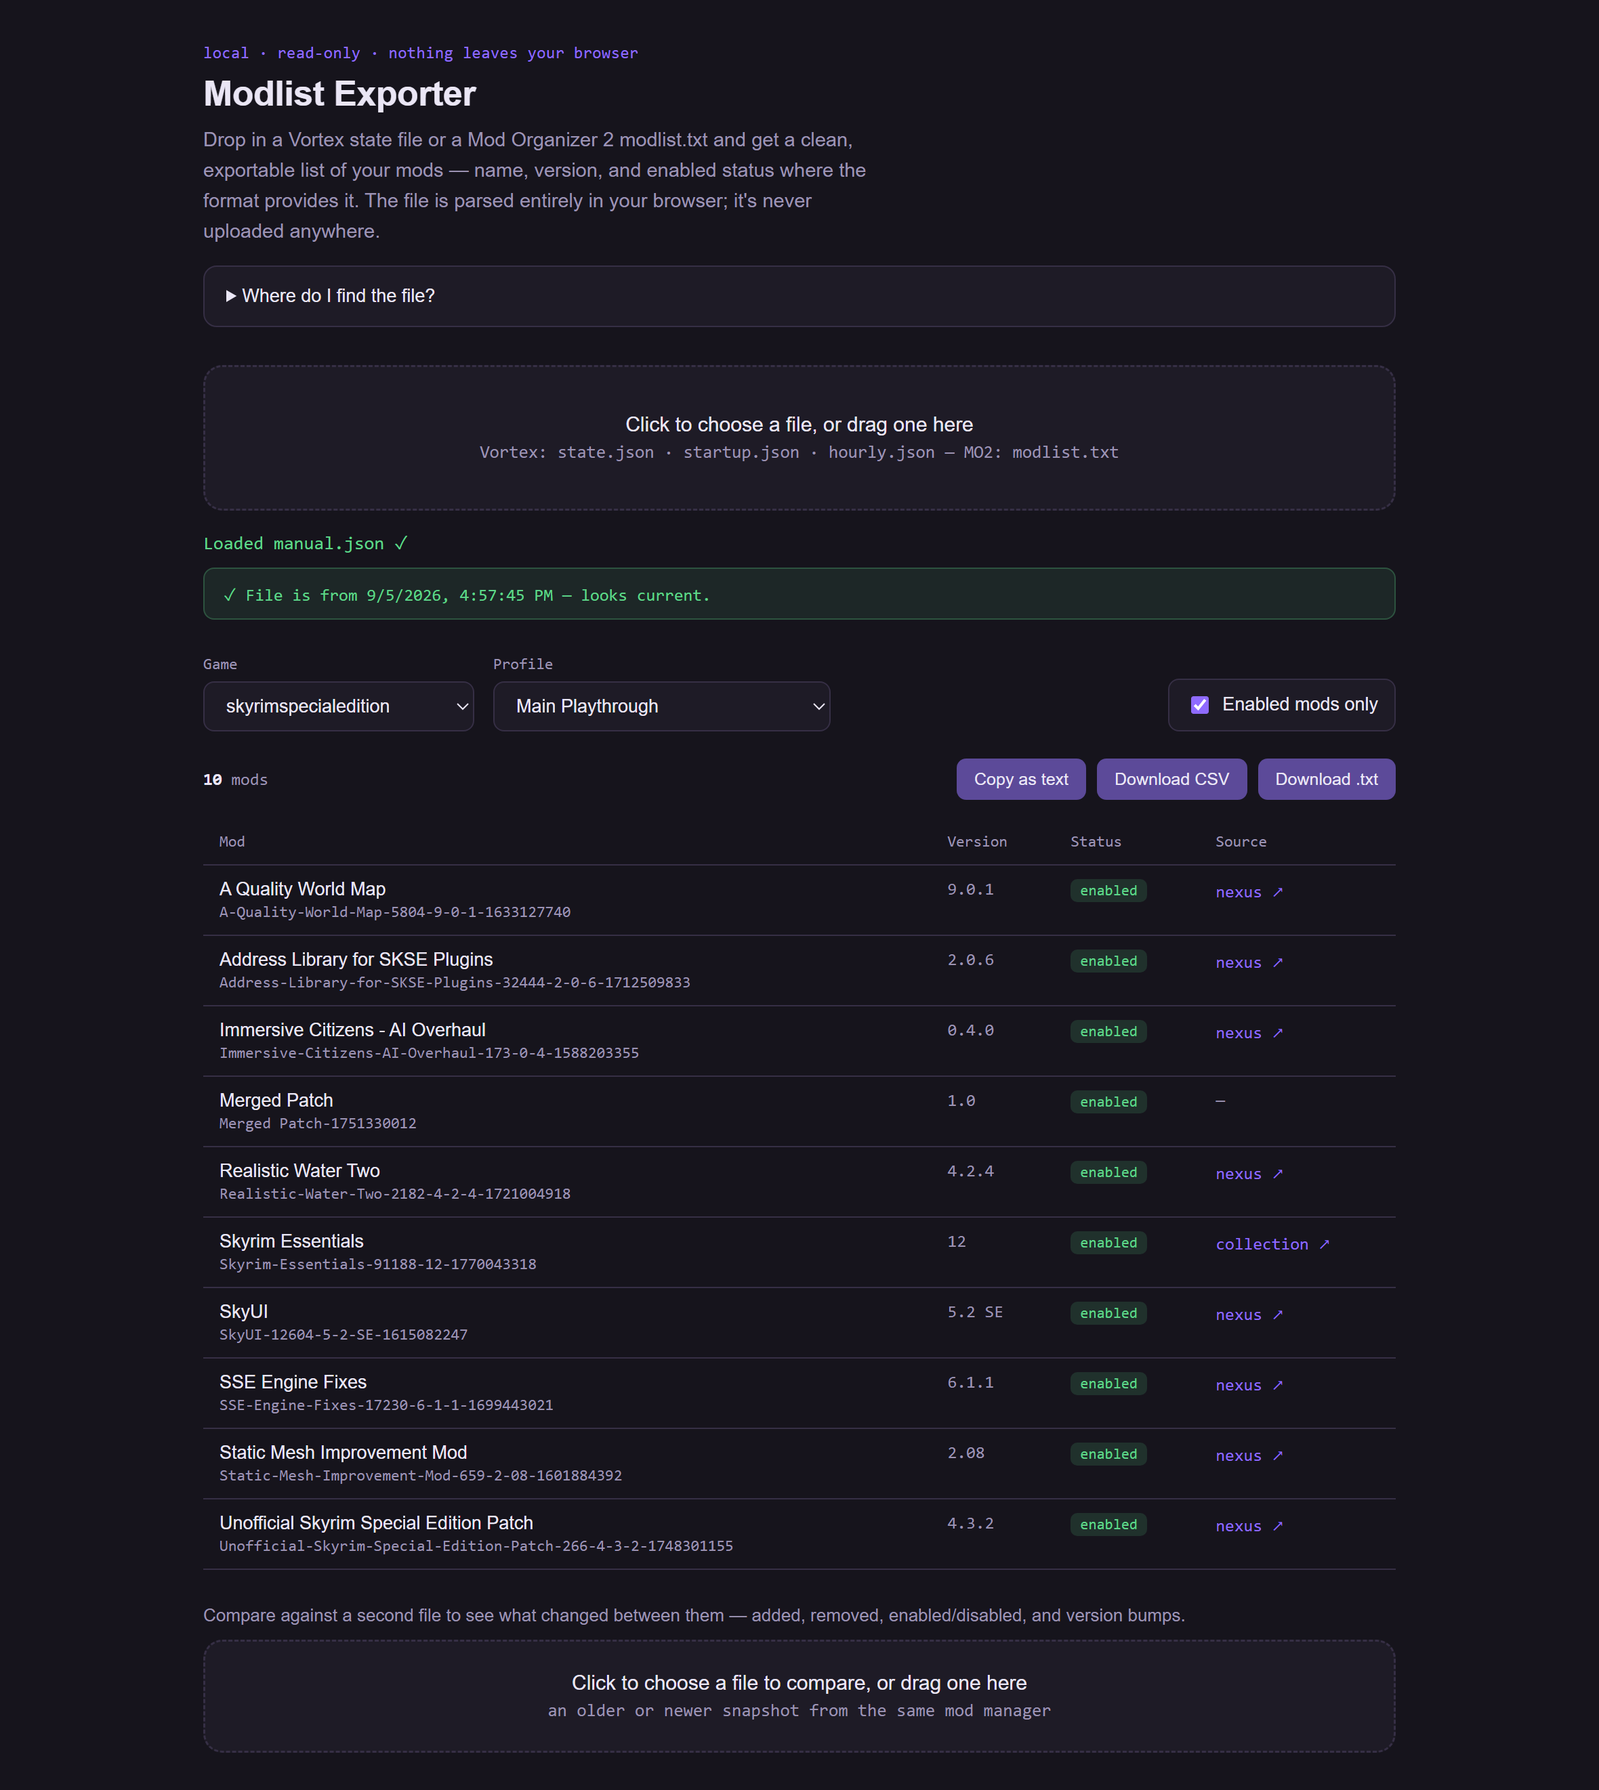
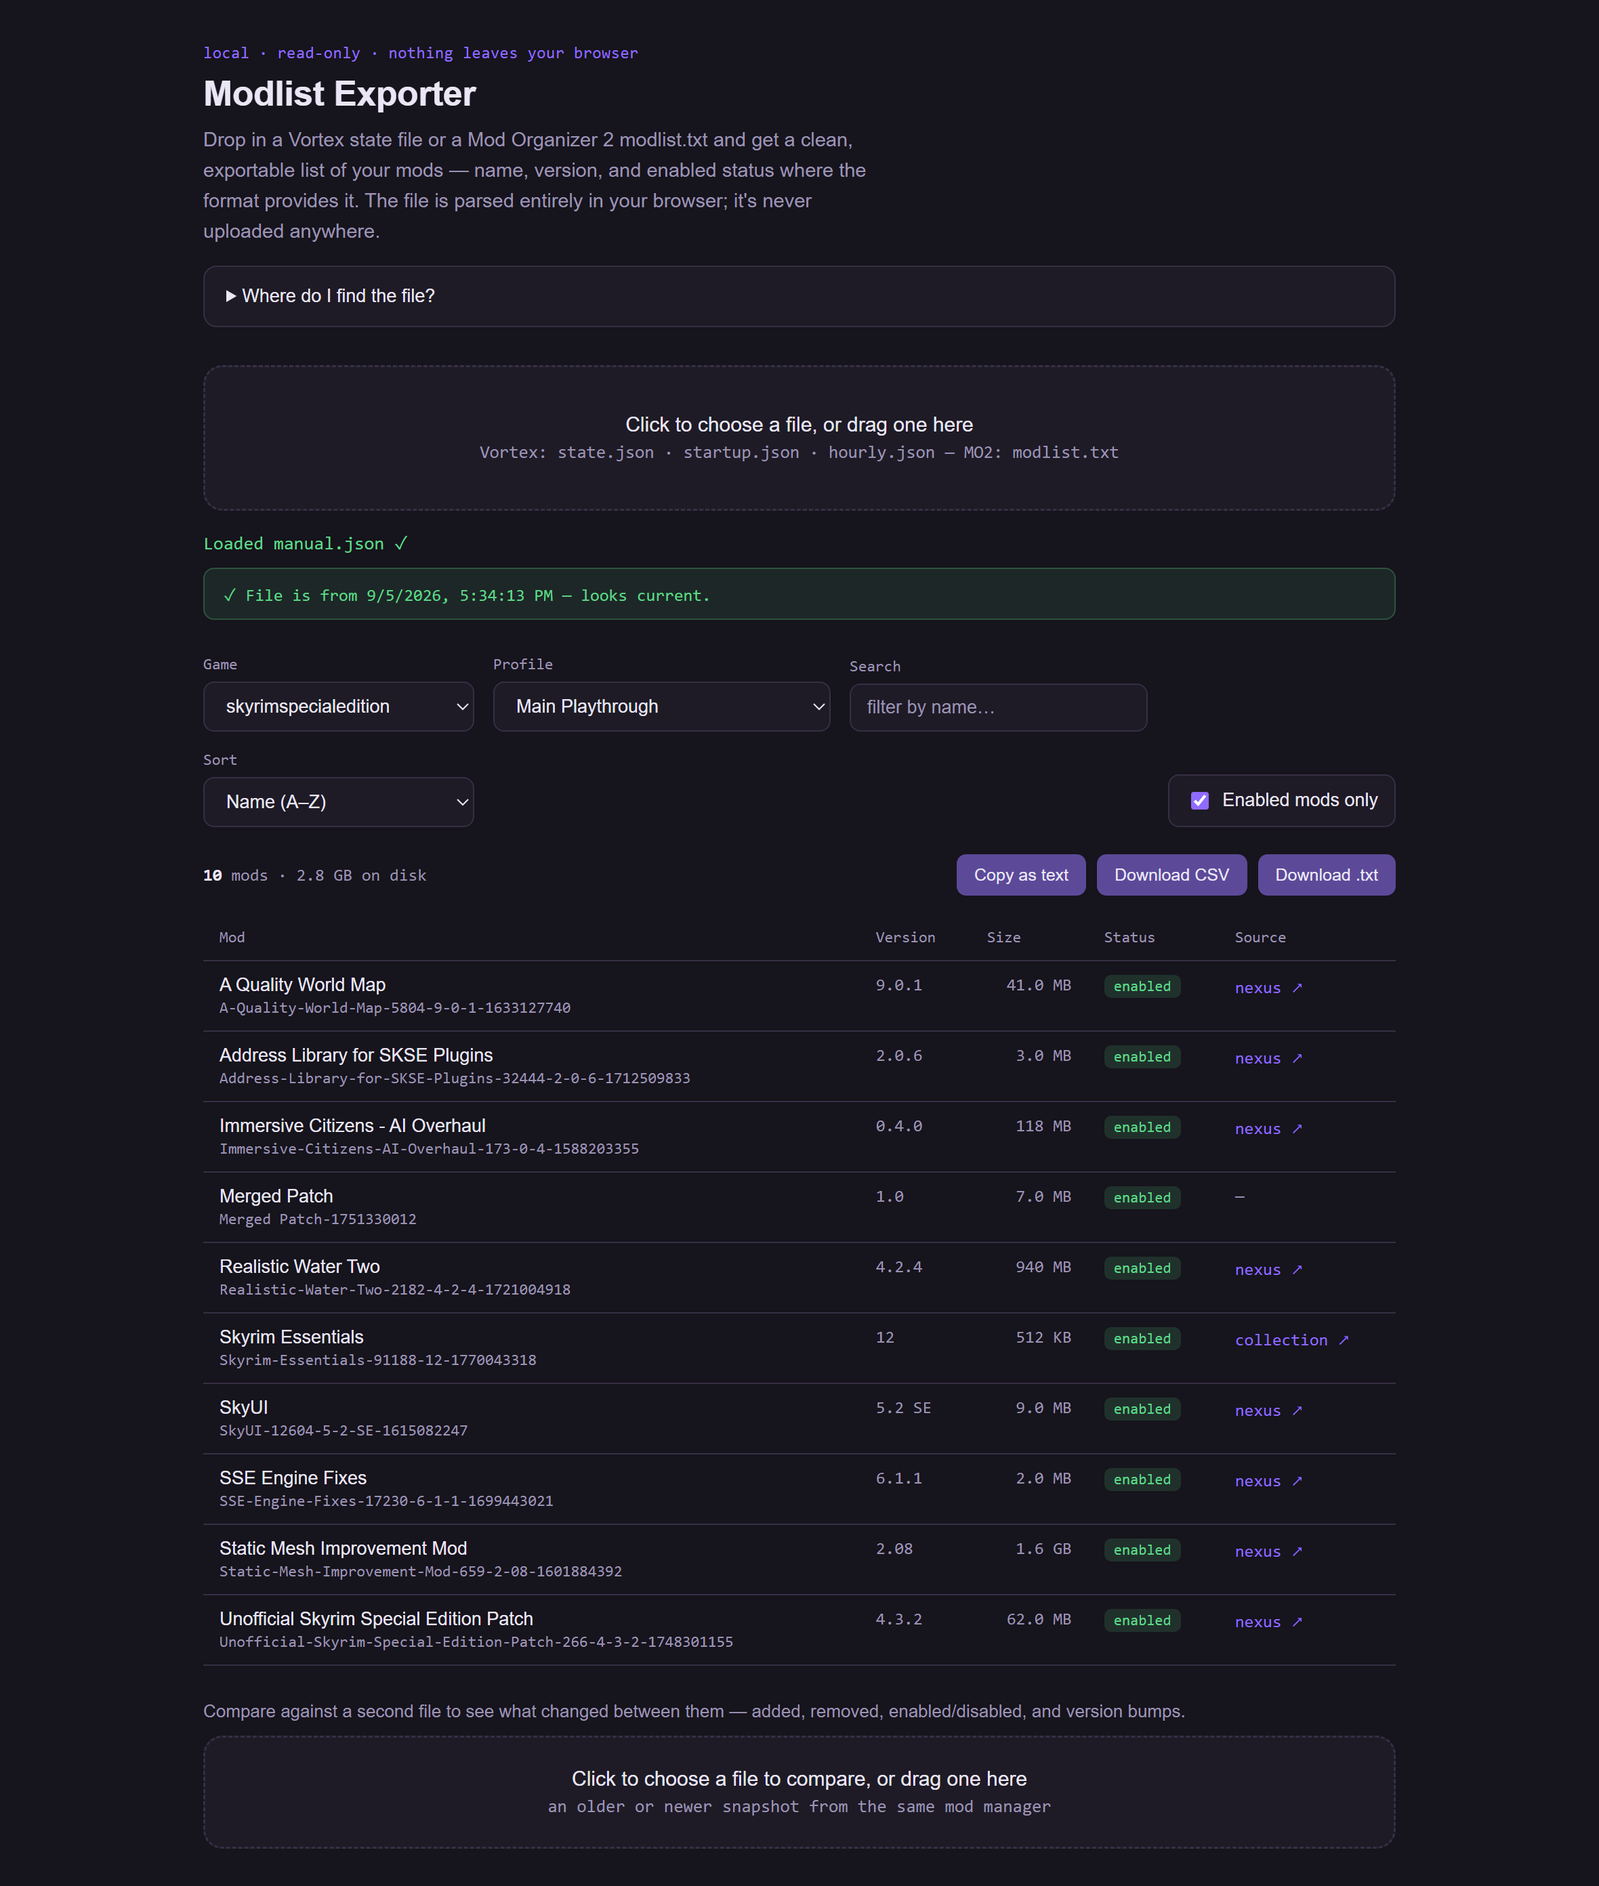
Add a search box and install sizes
Two things that together change the tool from "export a list" into
"understand your setup", which matters once a profile has a few hundred
mods in it.

Search filters on name, mod id, version and source; multiple terms all
have to match, in any order. There was previously no way at all to find a
single mod in a list -- one real profile here holds 131.

Install size comes from Vortex's modSize, falling back to fileSize; it is
present on 99% of the 436 real mods available to test against. The table
gains a Size column and a sortable "largest first" option, and the
summary bar totals whatever is currently shown, so the total responds to
the search and the enabled filter. CSV carries both the formatted size
and the raw byte count so it stays sortable in a spreadsheet.

Column and sort-option visibility is now driven by whether the data
exists: MO2 files have no sizes, Vortex files have no priority order.
That is decided from the unfiltered rows, so searching down to a single
mod with no recorded size does not make the column disappear.

Sizes are deliberately not diffed. A size change without a version change
is not something a person acts on, and it would add noise to the
comparison view.

The README screenshot is regenerated, since it no longer showed the real
UI once the search box and size column existed.

diff --git a/index.html b/index.html
@@ -242,7 +242,23 @@
   .chg .to{ color: var(--ink); }
   #diffTable{ display:none; }
   #diffTable.show{ display:table; }
-  .ver, .src, .ord{ font-family: var(--mono); font-size: 12.5px; color: var(--ink-dim); }
+  .ver, .src, .ord, .size{ font-family: var(--mono); font-size: 12.5px; color: var(--ink-dim); }
+  .size{ text-align: right; white-space: nowrap; }
+  /* MO2's modlist.txt records no sizes, so the column is hidden for it. */
+  #modTable.no-size th.size-col, #modTable.no-size td.size{ display: none; }
+  #searchInput{
+    background: var(--panel);
+    border: 1px solid var(--line);
+    color: var(--ink);
+    padding: 9px 12px;
+    border-radius: 8px;
+    font-size: 13.5px;
+    font-family: var(--sans);
+    min-width: 220px;
+  }
+  #searchInput:focus{ outline: 2px solid var(--accent); outline-offset: 1px; }
+  #searchInput::placeholder{ color: var(--ink-dim); }
+  .size-total{ color: var(--ink-dim); }
   .ord{ text-align: right; width: 1%; white-space: nowrap; padding-right: 14px; }
   /* Only MO2 files carry a verified order, so the column is hidden otherwise. */
   #modTable.no-order th.ord-col, #modTable.no-order td.ord{ display: none; }
@@ -307,11 +323,16 @@
       <label for="profileSelect">Profile</label>
       <select id="profileSelect"></select>
     </div>
+    <div class="field" id="searchField">
+      <label for="searchInput">Search</label>
+      <input type="search" id="searchInput" placeholder="filter by name…" autocomplete="off">
+    </div>
     <div class="field" id="sortField">
       <label for="sortSelect">Sort</label>
       <select id="sortSelect">
         <option value="name">Name (A–Z)</option>
-        <option value="order">MO2 priority order</option>
+        <option value="size">Size (largest first)</option>
+        <option value="order" id="sortOrderOption">MO2 priority order</option>
       </select>
     </div>
     <div class="toggle-row">
@@ -334,7 +355,7 @@
   <div class="diff-basis" id="diffBasis"></div>
 
   <div class="summary-bar" id="summaryBar">
-    <div class="count"><strong id="modCount">0</strong> <span id="countLabel">mods</span></div>
+    <div class="count"><strong id="modCount">0</strong> <span id="countLabel">mods</span><span class="size-total" id="sizeTotal"></span></div>
     <div class="export-btns">
       <button id="copyBtn">Copy as text</button>
       <button id="csvBtn">Download CSV</button>
@@ -348,6 +369,7 @@
         <th class="ord-col" title="Position in MO2's priority pane, top first">#</th>
         <th>Mod</th>
         <th>Version</th>
+        <th class="size-col">Size</th>
         <th>Status</th>
         <th>Source</th>
       </tr>
@@ -410,6 +432,10 @@
   const diffTable = document.getElementById('diffTable');
   const diffTableBody = document.getElementById('diffTableBody');
   const countLabel = document.getElementById('countLabel');
+  const searchInput = document.getElementById('searchInput');
+  const searchField = document.getElementById('searchField');
+  const sizeTotal = document.getElementById('sizeTotal');
+  const sortOrderOption = document.getElementById('sortOrderOption');
   const diffFilters = document.getElementById('diffFilters');
   const filterInputs = [...diffFilters.querySelectorAll('input[data-change]')];
 
@@ -684,7 +710,9 @@
       if (modState){
         enabled = !!(modState[modId] && modState[modId].enabled);
       }
-      return { modId, name, version, enabled, sourceUrl, source };
+      const size = typeof attr.modSize === 'number' ? attr.modSize
+        : (typeof attr.fileSize === 'number' ? attr.fileSize : null);
+      return { modId, name, version, enabled, sourceUrl, source, size };
     });
 
     rows.sort((a,b) => a.name.localeCompare(b.name, undefined, {sensitivity:'base'}));
@@ -698,13 +726,24 @@
       rows = rows.filter(r => r.enabled !== false);
     }
 
-    // Only MO2 files carry a verified order, so hide the column and the sort
-    // control for anything else.
-    const hasOrder = rows.some(r => typeof r.order === 'number');
-    sortField.style.display = hasOrder ? '' : 'none';
+    // Column visibility is decided from the unfiltered set, so searching down
+    // to a single mod with no recorded size doesn't make the column vanish.
+    const unfiltered = rows;
+    rows = rows.filter(r => matchesQuery(r, searchInput.value));
+
+    // Only MO2 files carry a verified order; only Vortex files carry sizes.
+    // Hide each column, and each sort option, where the data doesn't exist.
+    const hasOrder = unfiltered.some(r => typeof r.order === 'number');
+    const hasSize = unfiltered.some(r => typeof r.size === 'number');
     table.classList.toggle('no-order', !hasOrder);
-    if (hasOrder && sortSelect.value === 'order'){
+    table.classList.toggle('no-size', !hasSize);
+    sortOrderOption.hidden = !hasOrder;
+    if (!hasOrder && sortSelect.value === 'order') sortSelect.value = 'name';
+
+    if (sortSelect.value === 'order' && hasOrder){
       rows = rows.slice().sort((a,b) => a.order - b.order);
+    } else if (sortSelect.value === 'size'){
+      rows = rows.slice().sort((a,b) => (b.size || 0) - (a.size || 0));
     }
 
     tbody.innerHTML = '';
@@ -734,6 +773,11 @@
       verTd.textContent = r.version;
       tr.appendChild(verTd);
 
+      const sizeTd = document.createElement('td');
+      sizeTd.className = 'size';
+      sizeTd.textContent = formatSize(r.size);
+      tr.appendChild(sizeTd);
+
       const statTd = document.createElement('td');
       if (r.enabled === null){
         statTd.innerHTML = '<span class="ver">—</span>';
@@ -760,6 +804,11 @@
     });
 
     modCount.textContent = rows.length;
+    const totalBytes = rows.reduce((sum, r) => sum + (typeof r.size === 'number' ? r.size : 0), 0);
+    sizeTotal.textContent = totalBytes > 0 ? '  ·  ' + formatSize(totalBytes) + ' on disk' : '';
+    emptyNote.textContent = searchInput.value.trim()
+      ? 'No mods match that search.'
+      : 'No mods match the current filter.';
     table.classList.toggle('show', rows.length > 0);
     emptyNote.classList.toggle('show', rows.length === 0);
     summaryBar.classList.add('show');
@@ -904,6 +953,7 @@
       table.classList.remove('show');
       controls.classList.remove('show');
       diffFilters.classList.add('show');
+      sizeTotal.textContent = '';
       renderDiff();
     } else {
       diffTable.classList.remove('show');
@@ -922,6 +972,7 @@
   }
 
   onlyEnabled.addEventListener('change', refresh);
+  searchInput.addEventListener('input', () => { if (view === 'list') render(); });
   sortSelect.addEventListener('change', refresh);
   filterInputs.forEach(i => i.addEventListener('change', () => { if (view === 'diff') renderDiff(); }));
   viewListBtn.addEventListener('click', () => setView('list'));
@@ -959,6 +1010,29 @@
     let v = String(value);
     if (/^[=+\-@\t\r]/.test(v)) v = "'" + v;
     return '"' + v.replace(/"/g, '""') + '"';
+  }
+
+  // Sizes come out of the state file in bytes. Vortex reports whole-mod size
+  // as modSize and the downloaded archive as fileSize; prefer the former.
+  function formatSize(bytes){
+    if (typeof bytes !== 'number' || !isFinite(bytes) || bytes <= 0) return '—';
+    const units = ['B', 'KB', 'MB', 'GB', 'TB'];
+    let i = 0;
+    let n = bytes;
+    while (n >= 1024 && i < units.length - 1){ n /= 1024; i++; }
+    // Whole numbers above 100 don't need a decimal to be readable.
+    const digits = i === 0 ? 0 : (n >= 100 ? 0 : 1);
+    return n.toFixed(digits) + ' ' + units[i];
+  }
+
+  // Case- and diacritic-insensitive substring match over the fields a person
+  // would actually search by.
+  function matchesQuery(row, query){
+    const q = String(query || '').trim().toLowerCase();
+    if (!q) return true;
+    const hay = [row.name, row.modId, row.version, row.source]
+      .filter(Boolean).join(' ').toLowerCase();
+    return q.split(/\s+/).every(term => hay.indexOf(term) !== -1);
   }
 
   function statusLabel(enabled){
@@ -1043,12 +1117,16 @@
       return;
     }
     const withOrder = exportHasOrder();
-    const header = (withOrder ? ['#'] : []).concat(['Name','Version','Status','Source','Source URL']);
+    const withSize = currentRows.some(r => typeof r.size === 'number');
+    const header = (withOrder ? ['#'] : [])
+      .concat(['Name','Version'], withSize ? ['Size','Size (bytes)'] : [], ['Status','Source','Source URL']);
     const lines = [header.join(',')];
     currentRows.forEach(r => {
       const status = r.enabled === null ? '' : (r.enabled ? 'enabled' : 'disabled');
       const fields = (withOrder ? [typeof r.order === 'number' ? r.order : ''] : [])
-        .concat([r.name, r.version, status, r.source, r.sourceUrl || '']);
+        .concat([r.name, r.version],
+          withSize ? [formatSize(r.size), typeof r.size === 'number' ? r.size : ''] : [],
+          [status, r.source, r.sourceUrl || '']);
       lines.push(fields.map(csvCell).join(','));
     });
     download(exportBaseName() + '.csv', lines.join('\n'), 'text/csv');

diff --git a/test/modlist.test.js b/test/modlist.test.js
@@ -5,7 +5,7 @@ const assert = require('node:assert');
 const fs = require('node:fs');
 const path = require('node:path');
 
-const { parseMO2, parseModlist, diffRows, buildRows, csvCell } = require('./extract.js');
+const { parseMO2, parseModlist, diffRows, buildRows, csvCell, formatSize, matchesQuery } = require('./extract.js');
 
 const NL = '\n';
 const mo2 = (...lines) => lines.join(NL);
@@ -224,6 +224,69 @@ test('csvCell: formula-leading characters are neutralised', () => {
 
 test('csvCell: ordinary values are untouched', () => {
   assert.strictEqual(csvCell('Normal Mod'), '"Normal Mod"');
+});
+
+// --------------------------------------------------------------- formatSize
+
+test('formatSize: scales through units', () => {
+  assert.strictEqual(formatSize(512), '512 B');
+  assert.strictEqual(formatSize(1024), '1.0 KB');
+  assert.strictEqual(formatSize(5 * 1024 * 1024), '5.0 MB');
+  assert.strictEqual(formatSize(2.5 * 1024 * 1024 * 1024), '2.5 GB');
+});
+
+test('formatSize: drops the decimal once the number is big enough to not need it', () => {
+  assert.strictEqual(formatSize(150 * 1024 * 1024), '150 MB');
+});
+
+test('formatSize: missing or nonsensical sizes render as a dash', () => {
+  for (const v of [null, undefined, 0, -1, NaN, Infinity, '900']) {
+    assert.strictEqual(formatSize(v), '—', 'failed for ' + String(v));
+  }
+});
+
+// ------------------------------------------------------------- matchesQuery
+
+const row = { name: 'Unofficial Skyrim Patch', modId: 'USSEP-266', version: '4.3.2', source: 'nexus' };
+
+test('matchesQuery: an empty query matches everything', () => {
+  for (const q of ['', '   ', null, undefined]) assert.strictEqual(matchesQuery(row, q), true);
+});
+
+test('matchesQuery: case-insensitive substring over name, id, version and source', () => {
+  assert.strictEqual(matchesQuery(row, 'skyrim'), true);
+  assert.strictEqual(matchesQuery(row, 'SKYRIM'), true);
+  assert.strictEqual(matchesQuery(row, 'ussep'), true);
+  assert.strictEqual(matchesQuery(row, '4.3'), true);
+  assert.strictEqual(matchesQuery(row, 'nexus'), true);
+  assert.strictEqual(matchesQuery(row, 'morrowind'), false);
+});
+
+test('matchesQuery: multiple terms all have to match, in any order', () => {
+  assert.strictEqual(matchesQuery(row, 'unofficial patch'), true);
+  assert.strictEqual(matchesQuery(row, 'patch unofficial'), true);
+  assert.strictEqual(matchesQuery(row, 'unofficial morrowind'), false);
+});
+
+test('matchesQuery: surrounding whitespace is ignored', () => {
+  assert.strictEqual(matchesQuery(row, '  skyrim  '), true);
+});
+
+test('matchesQuery: tolerates rows with missing fields', () => {
+  assert.strictEqual(matchesQuery({ name: 'Solo' }, 'solo'), true);
+  assert.strictEqual(matchesQuery({ name: 'Solo' }, 'nexus'), false);
+});
+
+// ------------------------------------------------- buildRows: size plumbing
+
+test('buildRows: modSize is preferred over fileSize, and absence is null', () => {
+  const rows = buildRows(vortex({
+    both: { attributes: { name: 'Both', modSize: 100, fileSize: 999 } },
+    only: { attributes: { name: 'Only', fileSize: 42 } },
+    none: { attributes: { name: 'None' } },
+  }), 'skyrimse', '__all__');
+  const by = Object.fromEntries(rows.map((r) => [r.name, r.size]));
+  assert.deepStrictEqual(by, { Both: 100, Only: 42, None: null });
 });
 
 // -------------------------------------------------- optional: real backups

diff --git a/test/extract.js b/test/extract.js
@@ -21,6 +21,8 @@ const NAMES = [
   'diffRows',
   'buildRows',
   'csvCell',
+  'formatSize',
+  'matchesQuery',
 ];
 
 function extract() {

diff --git a/README.md b/README.md
@@ -8,7 +8,7 @@ browser, with exports available as CSV, plain text, or clipboard copy.
 
 **[Live demo](https://therealestnwah.github.io/modlist-exporter/)**
 
-![The mod list view: a Skyrim Special Edition profile with versions, enabled status, Nexus links and an installed collection](docs/screenshot.png)
+![The mod list view: a Skyrim Special Edition profile showing search and sort controls, per-mod install sizes with a disk total, enabled status, Nexus links and an installed collection](docs/screenshot.png)
 
 <sub>Example data — not a real load order.</sub>
 
@@ -26,6 +26,11 @@ browser, with exports available as CSV, plain text, or clipboard copy.
     enabled/disabled status, and the mod's position in MO2's priority pane,
     with an optional sort by that order (MO2's format doesn't store version
     or source data)
+- **Search and sort** — filter the list by name, mod ID, version or source;
+  sort by name, install size, or MO2 priority order
+- **Install size** — per-mod size and a total for whatever is currently shown,
+  so you can see what's actually using the disk (Vortex only; MO2's
+  `modlist.txt` records no sizes)
 - **File freshness check** — flags when the loaded file is more than a
   couple days old, so you don't export a stale list without realizing it
 - **Compare two snapshots** — load a second file to see what changed between
@@ -138,9 +143,15 @@ In both cases:
   `JSON.parse` entirely in-browser.
 - The browser's `File.lastModified` timestamp is checked against the current
   time to warn if the snapshot looks stale.
-- Results render into a table with CSV / .txt / clipboard export. MO2 files
-  can additionally be sorted by priority order; Vortex files have no
-  comparable ordering, so that control is hidden for them.
+- Results render into a table with CSV / .txt / clipboard export. Sorting is
+  by name, install size, or — for MO2 files only — priority order. Columns
+  and sort options are hidden where the format carries no such data: MO2
+  files have no sizes, Vortex files have no comparable ordering.
+- Sizes come from Vortex's `modSize` (falling back to `fileSize`), in bytes.
+  The CSV export includes both the formatted size and the raw byte count, so
+  it stays sortable in a spreadsheet.
+- The search box filters on name, mod ID, version and source. Multiple terms
+  all have to match, in any order.
 - Mod names come from mod authors, so they're treated as untrusted: table
   cells are built as DOM text nodes rather than HTML, Nexus links are only
   constructed when the game and mod IDs actually look like IDs, and CSV
